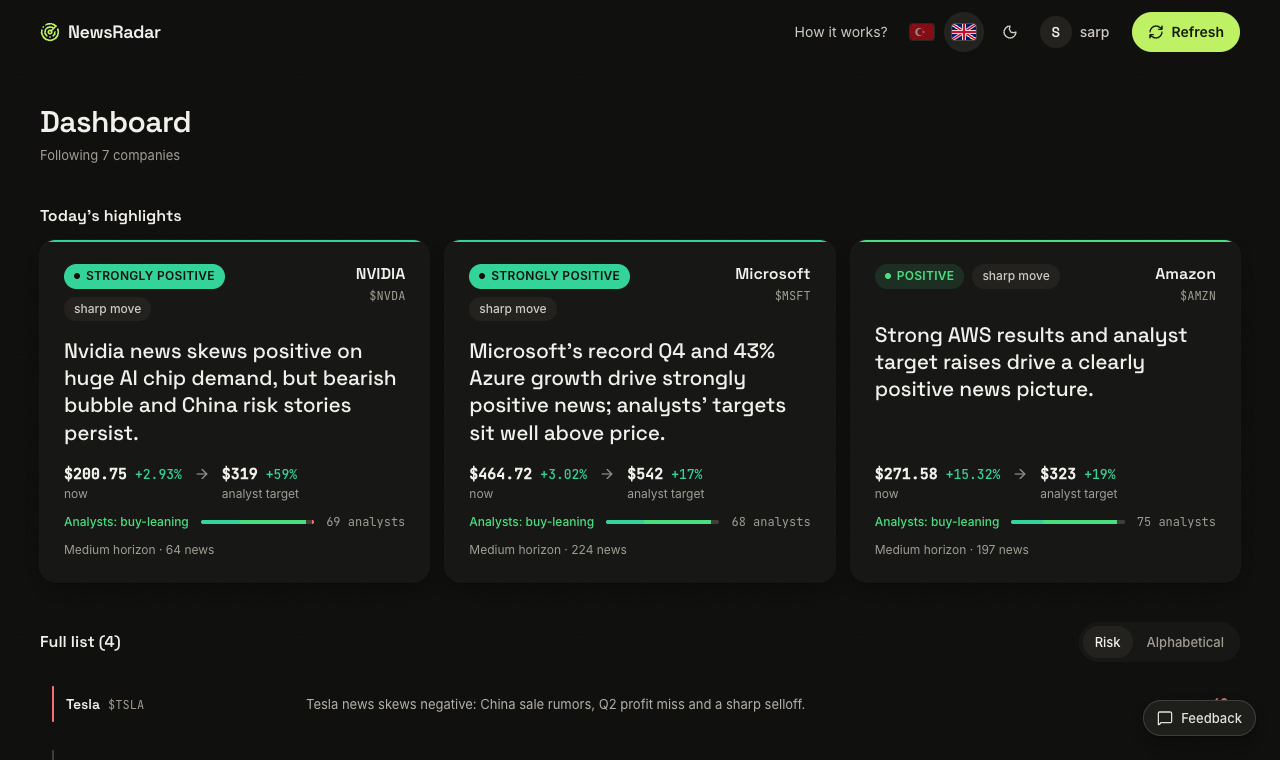
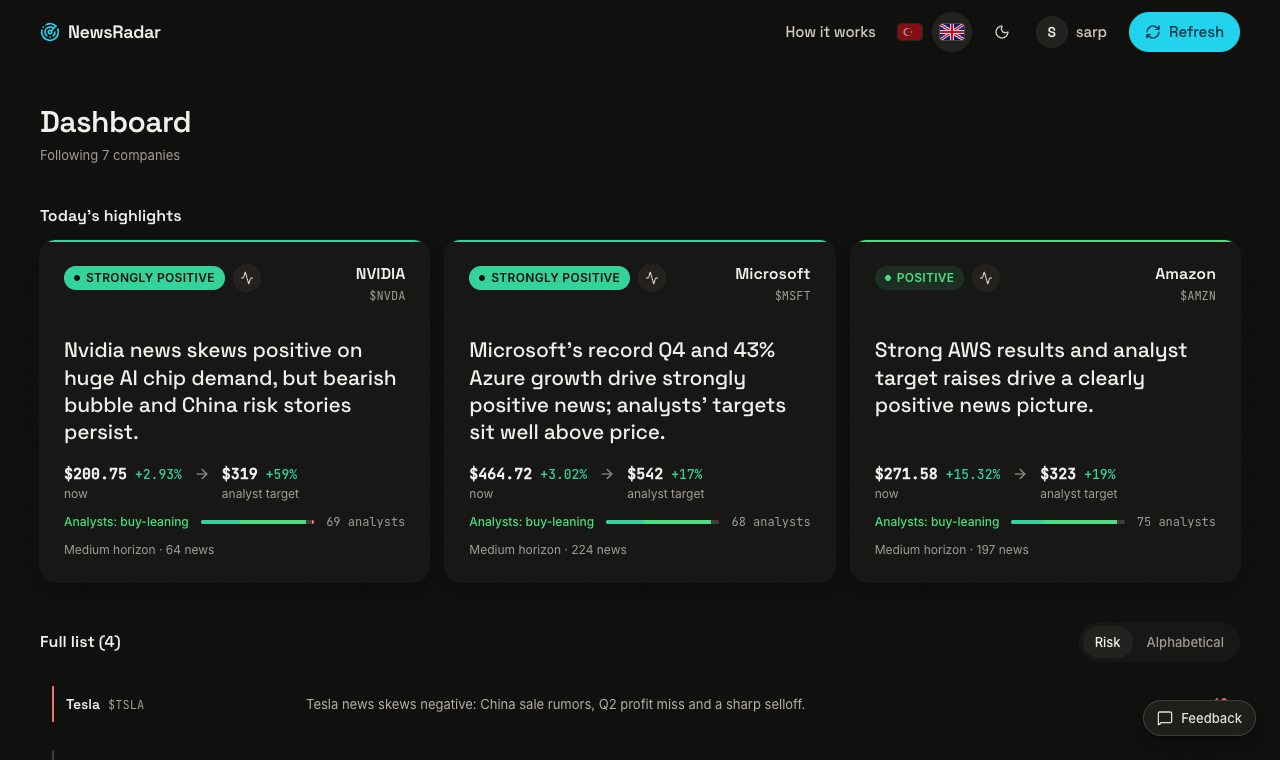
README görselleri camgöbeği vurguyla yenilendi
Landing ve pano, açık/koyu (1280×760, EN). index.html'deki favicon yorumu yeni renge
güncellendi.

diff --git a/frontend/index.html b/frontend/index.html
@@ -10,7 +10,7 @@
          visualViewport ile çözer. -->
     <meta name="viewport" content="width=device-width, initial-scale=1, viewport-fit=cover, interactive-widget=resizes-content" />
     <title>NewsRadar — Haber Akışı Bazlı Risk Analizi</title>
-    <!-- Favicon: header'daki radar ikonu, sitenin ana rengi (accent #1E3A5F). SVG koyu
+    <!-- Favicon: header'daki radar ikonu, sitenin ana rengi (camgöbeği accent: açık #0E7490, koyu #22D3EE). SVG koyu
          temada kendi rengini açar (prefers-color-scheme); ICO eski tarayıcılar için. -->
     <link rel="icon" href="/favicon.ico" sizes="32x32" />
     <link rel="icon" href="/favicon.svg" type="image/svg+xml" />
